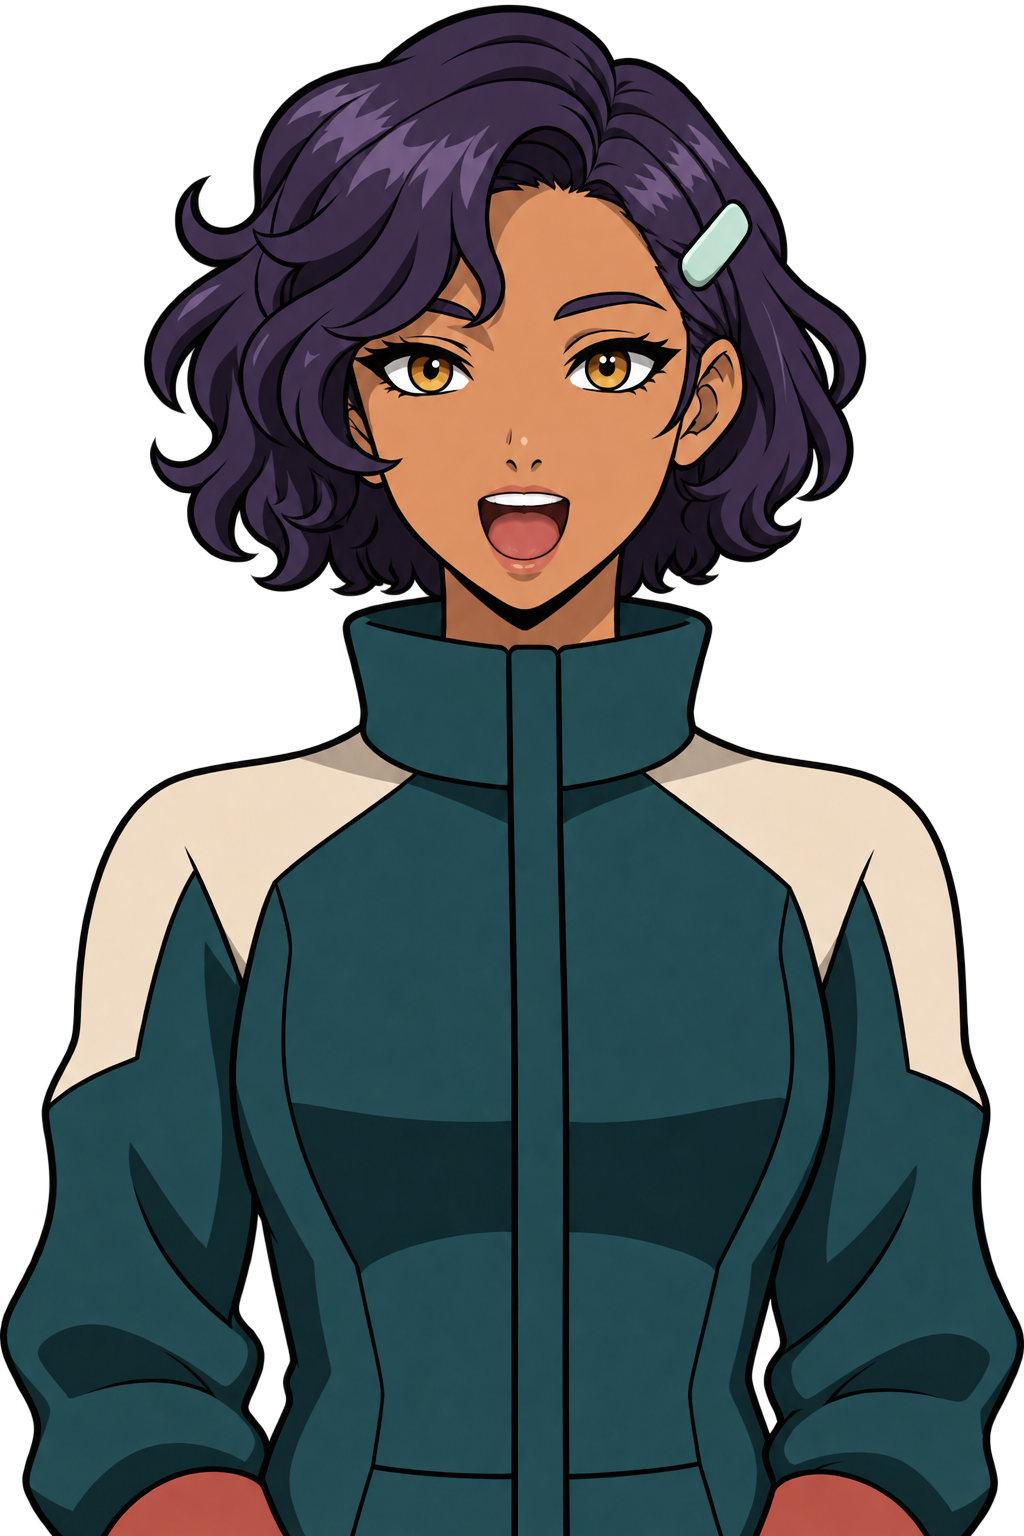
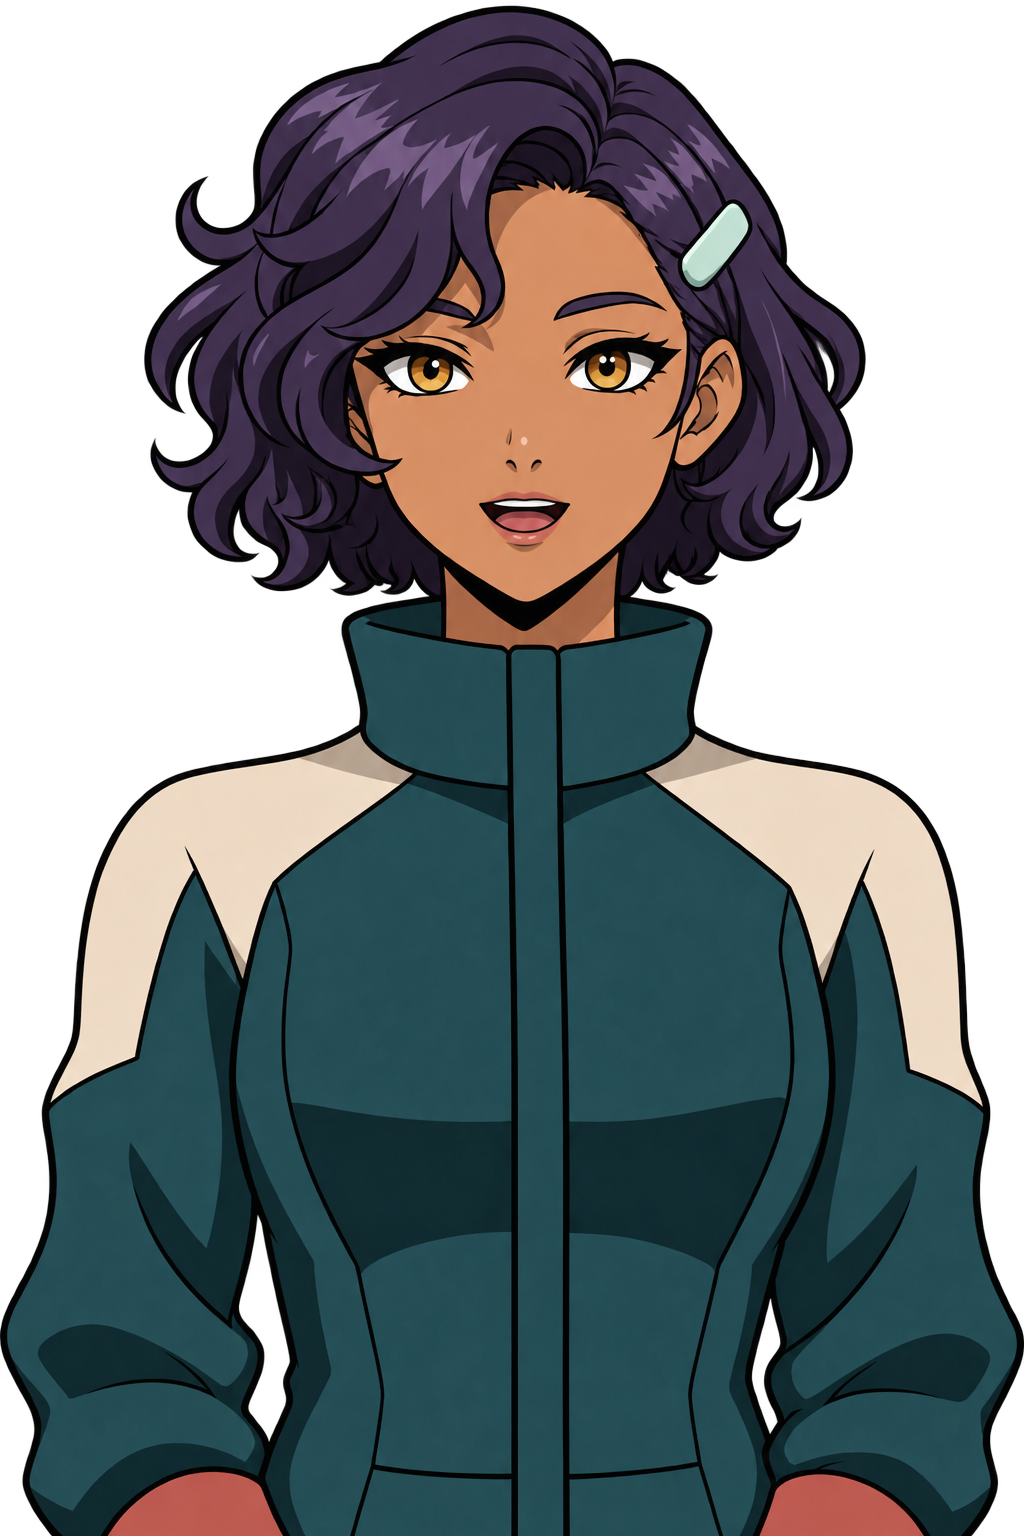
Pack stylesheets may set a bounded text-shadow; Companion clock shadow, vowel mouths, mild cool
The pack CSS grammar accepts text-shadow: one or two shadows, offsets and blur in px within 16, colour as #rrggbb or rgba(). The Companion clock and date use it. The pack art gains five vowel mouth stills (a, i, u, e, o) for lip sync and a smaller open mouth, and the default colour grade is the mild cool the owner picked (warmth -0.25).

Changed region(s): [[0.4062, 0.3125, 0.625, 0.4062], [0.7812, 0.2188, 0.8125, 0.25]]

diff --git a/scripts/packs/companion/companion-clock.css b/scripts/packs/companion/companion-clock.css
@@ -1,6 +1,7 @@
 .pack-clock,
 .pack-date {
     text-align: right;
+    text-shadow: 0px 2px 8px rgba(0, 0, 0, 0.75), 0px 0px 2px rgba(0, 0, 0, 0.6);
 }
 .pack-clock {
     font-size: 72px;

diff --git a/crates/echo-screen-server/src/packs/css.rs b/crates/echo-screen-server/src/packs/css.rs
@@ -50,6 +50,7 @@ fn declaration_value(key: &str, value: &str, files: &BTreeMap<String, Vec<u8>>) 
         "text-align" if ["left", "center", "right"].contains(&value) => (),
         "opacity" => number(value, 0.0, 1.0)?,
         "font-size" | "border-radius" | "border-width" | "padding" | "gap" => dimension(value)?,
+        "text-shadow" => shadows(value)?,
         _ => return Err(Error::Css),
     }
     Ok(())
@@ -69,6 +70,66 @@ fn dimension(value: &str) -> Result<(), Error> {
         .find_map(|unit| value.strip_suffix(unit))
         .ok_or(Error::Css)?;
     number(raw, 0.0, 100.0)
+}
+
+/// One or two shadows: `<x>px <y>px [<blur>px] <colour>`, lengths within 16 px,
+/// the colour `#rrggbb` or `rgba(r, g, b, a)`.
+fn shadows(value: &str) -> Result<(), Error> {
+    // The only commas outside a colour separate the shadows.
+    let (mut parts, mut start, mut inside) = (Vec::new(), 0, false);
+    for (index, byte) in value.bytes().enumerate() {
+        match byte {
+            b'(' if !inside => inside = true,
+            b')' if inside => inside = false,
+            b'(' | b')' => return Err(Error::Css),
+            b',' if !inside => {
+                parts.push(&value[start..index]);
+                start = index + 1;
+            }
+            _ => (),
+        }
+    }
+    parts.push(&value[start..]);
+    if inside || parts.len() > 2 {
+        return Err(Error::Css);
+    }
+    for part in parts {
+        let part = part.trim();
+        let (lengths, colour) = match part.find("rgba(") {
+            Some(index) => part.split_at(index),
+            None => part.rsplit_once(' ').ok_or(Error::Css)?,
+        };
+        shadow_colour(colour.trim())?;
+        let lengths = lengths.split_ascii_whitespace().collect::<Vec<_>>();
+        if !(2..=3).contains(&lengths.len()) {
+            return Err(Error::Css);
+        }
+        for (index, length) in lengths.into_iter().enumerate() {
+            let raw = length.strip_suffix("px").ok_or(Error::Css)?;
+            // Offsets may point either way; a blur radius is never negative.
+            number(raw, if index < 2 { -16.0 } else { 0.0 }, 16.0)?;
+        }
+    }
+    Ok(())
+}
+
+fn shadow_colour(value: &str) -> Result<(), Error> {
+    if let Some(channels) = value.strip_prefix("rgba(").and_then(|v| v.strip_suffix(')')) {
+        let channels = channels.split(',').map(str::trim).collect::<Vec<_>>();
+        if channels.len() != 4 {
+            return Err(Error::Css);
+        }
+        for channel in &channels[..3] {
+            if !channel.bytes().all(|b| b.is_ascii_digit()) || channel.parse::<u8>().is_err() {
+                return Err(Error::Css);
+            }
+        }
+        return number(channels[3], 0.0, 1.0);
+    }
+    if value.len() != 7 || !value.starts_with('#') || !value[1..].bytes().all(|b| b.is_ascii_hexdigit()) {
+        return Err(Error::Css);
+    }
+    Ok(())
 }
 
 fn image(value: &str, files: &BTreeMap<String, Vec<u8>>) -> Result<(), Error> {

diff --git a/crates/echo-screen-server/src/packs/tests.rs b/crates/echo-screen-server/src/packs/tests.rs
@@ -405,6 +405,51 @@ fn pack_css_accepts_only_documented_selectors_declarations_and_local_files() {
 }
 
 #[test]
+fn pack_css_text_shadow_is_bounded() {
+    let files = BTreeMap::new();
+    for value in [
+        "0px 2px #000000",
+        "0px 2px 6px #101827",
+        "-16px 16px 16px rgba(0, 0, 0, 0.7)",
+        "0px 1px 2px rgba(0,0,0,1), 0px 0px 12px #000000",
+        "1.5px 1.5px 0px rgba(255, 255, 255, 0)",
+    ] {
+        let css = format!(".pack-clock, .pack-date {{ text-shadow: {value}; }}");
+        assert_eq!(css::validate(&css, &files), Ok(()), "{value}");
+    }
+    for value in [
+        "",
+        "none",
+        "#000000",
+        "2px #000000",
+        "0px 2px 6px",
+        "0px 2px 6px 1px #000000",
+        "0px 17px 6px #000000",
+        "-17px 0px #000000",
+        "0px 2px 16.5px #000000",
+        "0px 2px -1px #000000",
+        "0 2px 6px #000000",
+        "0em 2px 6px #000000",
+        "0px 2px 6px #000",
+        "0px 2px 6px black",
+        "0px 2px 6px rgb(0, 0, 0)",
+        "0px 2px 6px rgba(0, 0, 0)",
+        "0px 2px 6px rgba(256, 0, 0, 0.5)",
+        "0px 2px 6px rgba(0, 0, 0, 1.5)",
+        "0px 2px 6px rgba(0, 0, 0, 0.5",
+        "0px 2px 6px rgba(0, 0, 0, 0.5))",
+        "0px 2px 6px rgba(0, 0, var(--x), 0.5)",
+        "0px 2px 6px rgba(0, 0, 0, 0.5) url(rest.png)",
+        "#000000 0px 2px 6px",
+        "0px 2px #000000, 0px 2px #000000, 0px 2px #000000",
+        "0px 2px #000000,",
+    ] {
+        let css = format!(".pack-clock {{ text-shadow: {value}; }}");
+        assert_eq!(css::validate(&css, &files), Err(Error::Css), "{value}");
+    }
+}
+
+#[test]
 fn pack_install_cancelled_preparation_and_publication_leave_no_identity() {
     let root = tempfile::tempdir().unwrap();
     let bytes = archive(&valid_files());

diff --git a/scripts/packs/companion/build.py b/scripts/packs/companion/build.py
@@ -12,7 +12,7 @@ import sys
 import tarfile
 import tempfile
 
-from render import BACKGROUND, FRAMES, render
+from render import BACKGROUND, FRAMES, WARMTH, render
 
 MIB = 1024 ** 2
 DIAGNOSTIC = "screenpack: generation failed; output was not published"
@@ -76,7 +76,7 @@ def archive_pack(pack, archive):
     archive.with_suffix(".gz.sha256").write_text(f"{digest}  {archive.name}\n", encoding="ascii")
 
 
-def build(version, out, warmth=0.0):
+def build(version, out, warmth=WARMTH):
     if sys.platform != "linux" or out.exists() or out.is_symlink():
         raise ValueError("Linux and an unused output path are required")
     out.parent.mkdir(parents=True, exist_ok=True)
@@ -102,7 +102,7 @@ def main():
     parser = argparse.ArgumentParser(description="Build Companion screen-pack data (Linux only).")
     parser.add_argument("--version", required=True)
     parser.add_argument("--out", type=Path, required=True)
-    parser.add_argument("--warmth", type=float, default=0.0,
+    parser.add_argument("--warmth", type=float, default=WARMTH,
                         help="colour grade of every frame, -1 (cool) to 1 (warm)")
     args = parser.parse_args()
     if not -1 <= args.warmth <= 1:

diff --git a/scripts/packs/companion/render.py b/scripts/packs/companion/render.py
@@ -30,8 +30,8 @@ VARIANTS = ("mouth-half", "mouth-open", "blink", "listening", "connecting",
 # Poses shown next to a card stand left of centre, clear of the card.
 CARD_SHIFT = {"setup": -110, "approval": -110, "error": -110}
 # One colour grade for every frame, from -1 (cool) to 1 (warm): red gains and
-# blue loses a fifth of it. Set by the build's --warmth option.
-WARMTH = 0.0
+# blue loses a fifth of it. The build's --warmth option overrides it.
+WARMTH = -0.25
 
 # Unequal held mouth shapes, from the first frame after the neutral one. The
 # runs never repeat as a shorter regular speech cycle.
@@ -224,7 +224,7 @@ def encode(pack, raw, role, count):
          str(pack / f"{role}.mp4")])
 
 
-def render(pack, work, warmth=0.0):
+def render(pack, work, warmth=WARMTH):
     global WARMTH
     WARMTH = warmth
     frames = keyframes()

diff --git a/scripts/packs/companion/prompts.md b/scripts/packs/companion/prompts.md
@@ -22,12 +22,19 @@ earlier edit of reference.png and is no longer kept.
 
 ## The mouth shapes, the blink and the state frames
 
-Each is a separate edit of neutral.png with the same prompt and one change.
+Each is a separate edit of neutral.png with the same prompt and one change. The
+five vowel mouths (a, i, u, e, o) are stills for audio-driven lip sync; the
+builder does not use them yet.
 
 > Edit this animation frame of an original anime character to make the next frame of the same animation. Keep the image IDENTICAL everywhere except the change described below: the same adult woman, same portrait 2:3 canvas, same framing, scale and position with her hair crown just under the top edge and her body cut at the bottom edge, same outlines, colours and cel shading, same indigo wavy bob with mint hair clip, same teal and cream high-collar jacket with every fold and seam where it is, same actual transparent background with true alpha. Nothing may be moved, resized, re-posed, restyled, mirrored or added. THE ONLY CHANGE: (the change below) No glow, shadow, text, border or backdrop.
 
 - mouth-half.png: her lips are slightly parted in mid speech, showing a small dark gap and a hint of upper teeth, about one third open. Eyes, brows, nose, jaw and face outline stay exactly as they are.
-- mouth-open.png: her mouth is open in a rounded speaking shape (an 'ah' vowel), clearly taller than a slightly parted mouth, showing upper teeth and tongue. Eyes, brows, nose, jaw and face outline stay exactly as they are.
+- mouth-open.png: her mouth is open in a relaxed speaking shape, moderately open: no wider than her closed smile and about half as tall as it is wide, showing the edge of the upper teeth and a little tongue. A calm talking mouth, not a shout or a laugh. Only the mouth changes; eyes, brows, nose, cheeks, head position and face outline stay exactly as they are.
+- mouth-a.png: her mouth says the vowel 'a' (as in 'father'): a relaxed open oval no wider than her closed smile, the jaw lowered just a little, the edge of the upper teeth visible and the tongue low. A calm speaking mouth, not a shout or a laugh. Only the mouth changes; eyes, brows, nose, cheeks, head position and face outline stay exactly as they are.
+- mouth-i.png: her mouth says the vowel 'i' (as in 'see'): lips stretched slightly sideways with a narrow opening, teeth nearly together and showing as a thin light strip. Only the mouth changes; eyes, brows, nose, cheeks, head position and face outline stay exactly as they are.
+- mouth-u.png: her mouth says the vowel 'u' (as in 'blue'): lips rounded and gently pursed into a small pucker with a small round dark opening, no teeth showing. Only the mouth changes; eyes, brows, nose, cheeks, head position and face outline stay exactly as they are.
+- mouth-e.png: her mouth says the vowel 'e' (as in 'bed'): mouth half open with the lips a little wide, the upper teeth visible, the opening clearly shorter than a full 'a'. Only the mouth changes; eyes, brows, nose, cheeks, head position and face outline stay exactly as they are.
+- mouth-o.png: her mouth says the vowel 'o' (as in 'go'): lips rounded into a medium round opening, narrower than her smile, the jaw lowered just a little, no teeth showing. Only the mouth changes; eyes, brows, nose, cheeks, head position and face outline stay exactly as they are.
 - blink.png: both eyelids are softly closed in a natural blink, drawn as two calm downward-curved lash lines where the eyes were. Brows, nose, closed smiling mouth and face outline stay exactly as they are.
 - listening.png: her HEAD is tilted about 8 degrees toward viewer-right in a curious, attentive listening tilt, with brows raised and eyes slightly wider, looking at the viewer, lips closed in a soft smile. Only the head, hair and face change; the neck, collar, shoulders, arms and whole jacket stay exactly where they are.
 - connecting.png: her eyes glance toward viewer-left, as if waiting for something off screen, with her head turned very slightly that way, brows relaxed and lips closed in a small calm smile. Only the head, hair and face change; the neck, collar, shoulders, arms and whole jacket stay exactly where they are.

diff --git a/docs/screen-packs.md b/docs/screen-packs.md
@@ -124,8 +124,11 @@ The CSS grammar accepts only `.pack-clock`, `.pack-date`, `.pack-status`,
 comma-separated lists. Allowed declarations are six-digit hex `color`,
 `background-color`, `border-color`; `background-image: url(local.png)` (or WebP);
 `font-weight` (normal, bold, 400–700 in hundreds); `text-align` (left/center/right);
-`opacity` (0–1); and `font-size`, `border-radius`, `border-width`, `padding`, `gap`
-(one nonnegative value up to 100 with px/rem/em/%). Unsupported properties,
+`opacity` (0–1); `font-size`, `border-radius`, `border-width`, `padding`, `gap`
+(one nonnegative value up to 100 with px/rem/em/%); and `text-shadow` (one or two
+comma-separated shadows, each `<x>px <y>px [<blur>px] <colour>` with offsets from
+-16 to 16, blur from 0 to 16 and the colour `#RRGGBB` or `rgba(r, g, b, a)`).
+Unsupported properties,
 selectors, comments, escapes, at-rules, expressions and remote/data URLs fail
 closed. All CSS files are checked, including unreferenced ones. Serving will
 scope selectors and rewrite validated URLs with pairing admission; raw pack CSS
